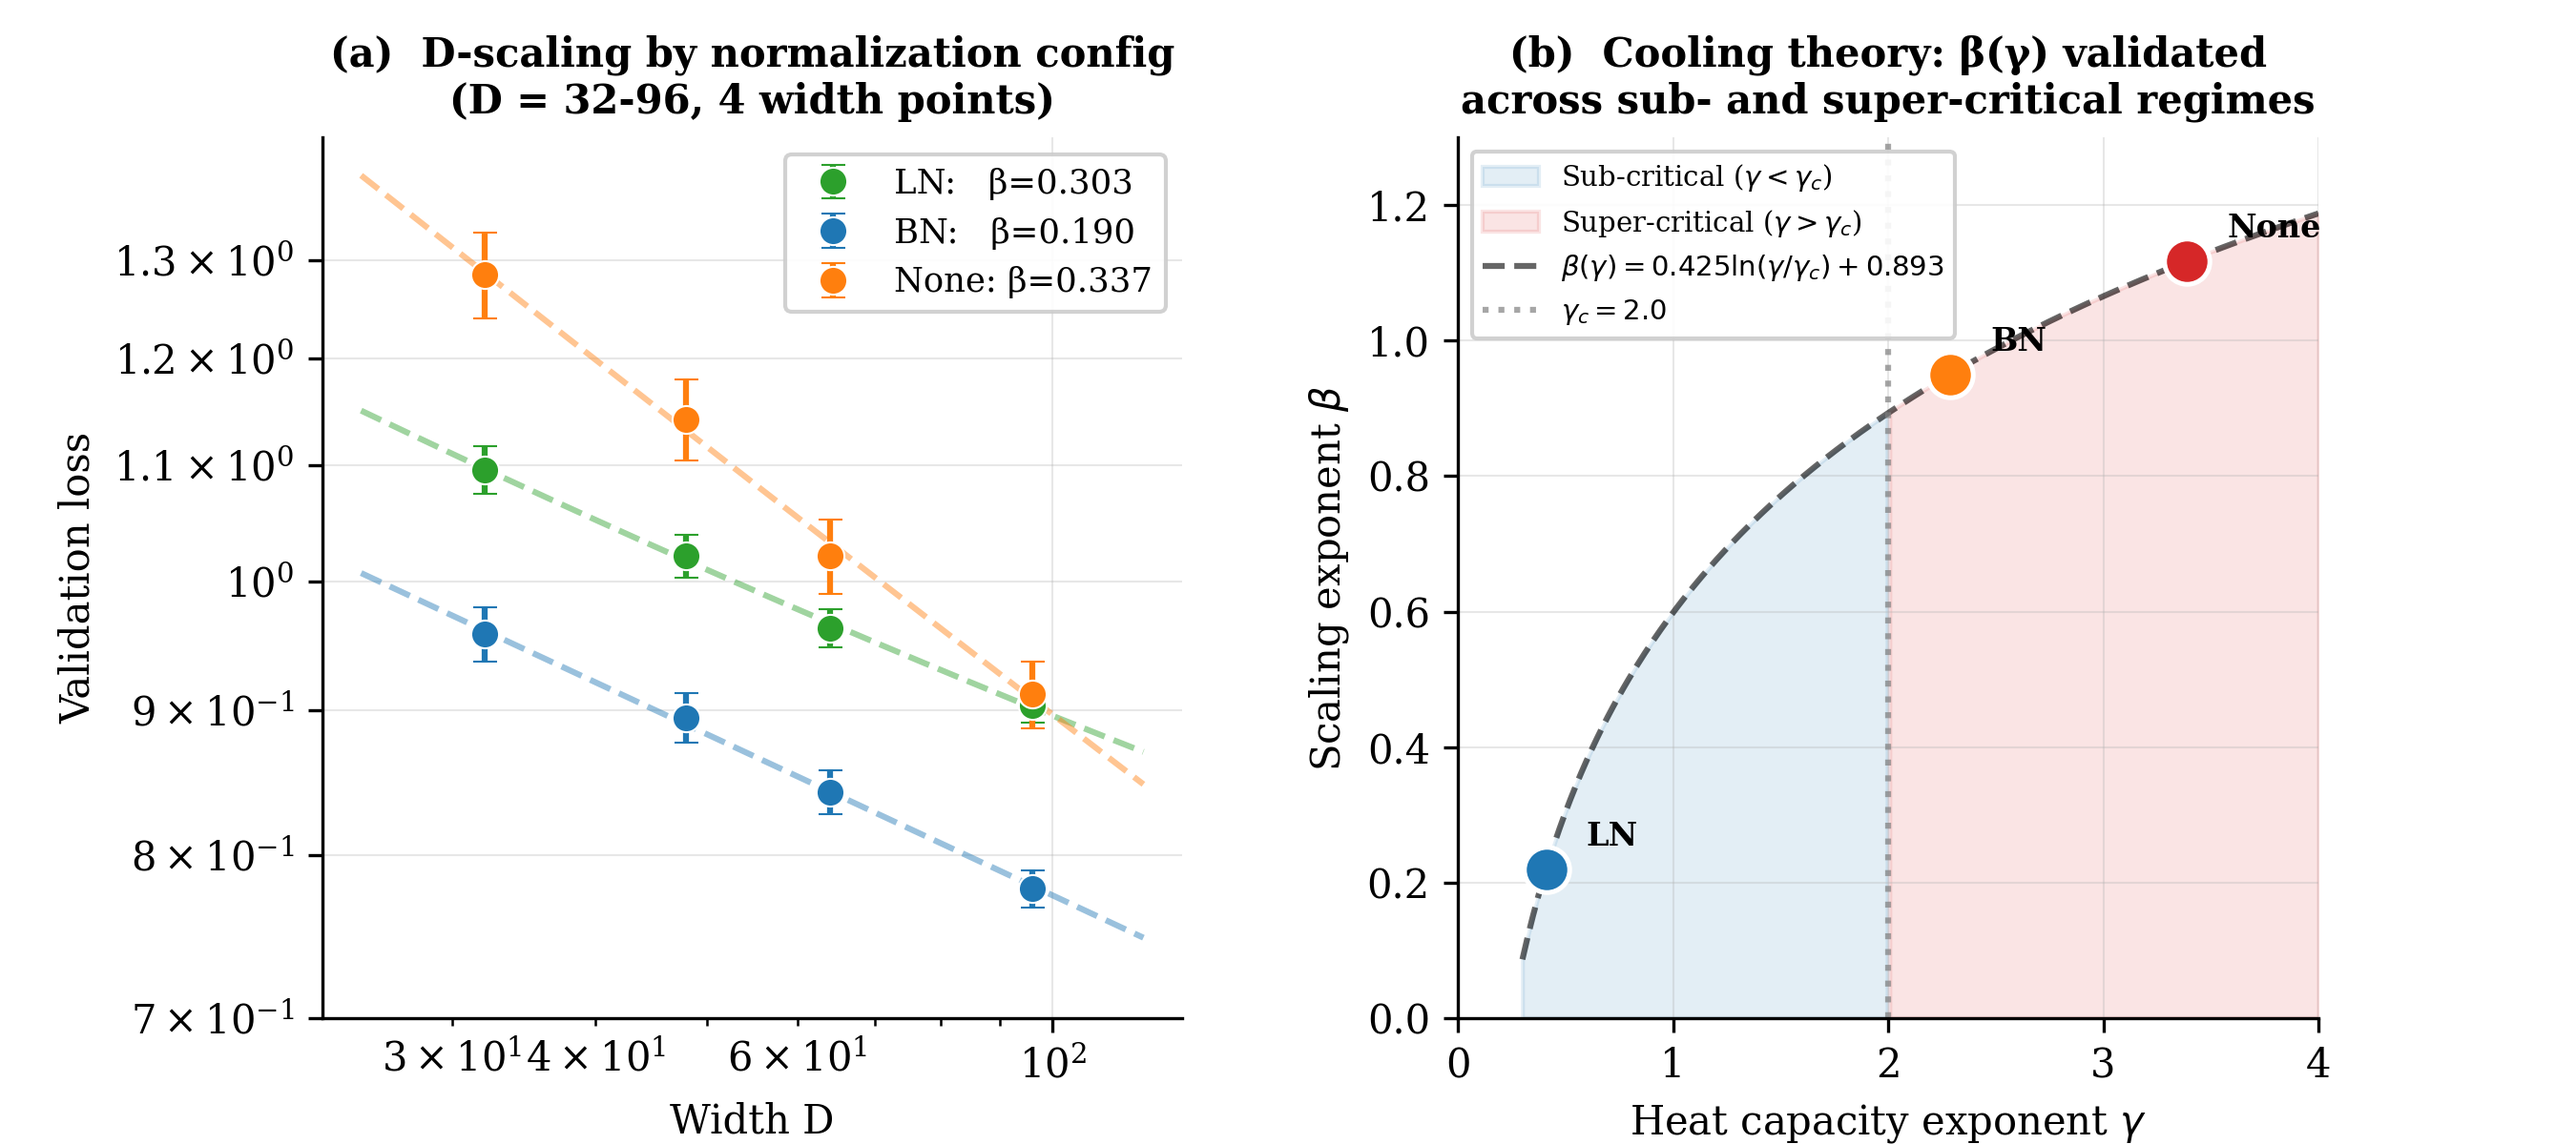
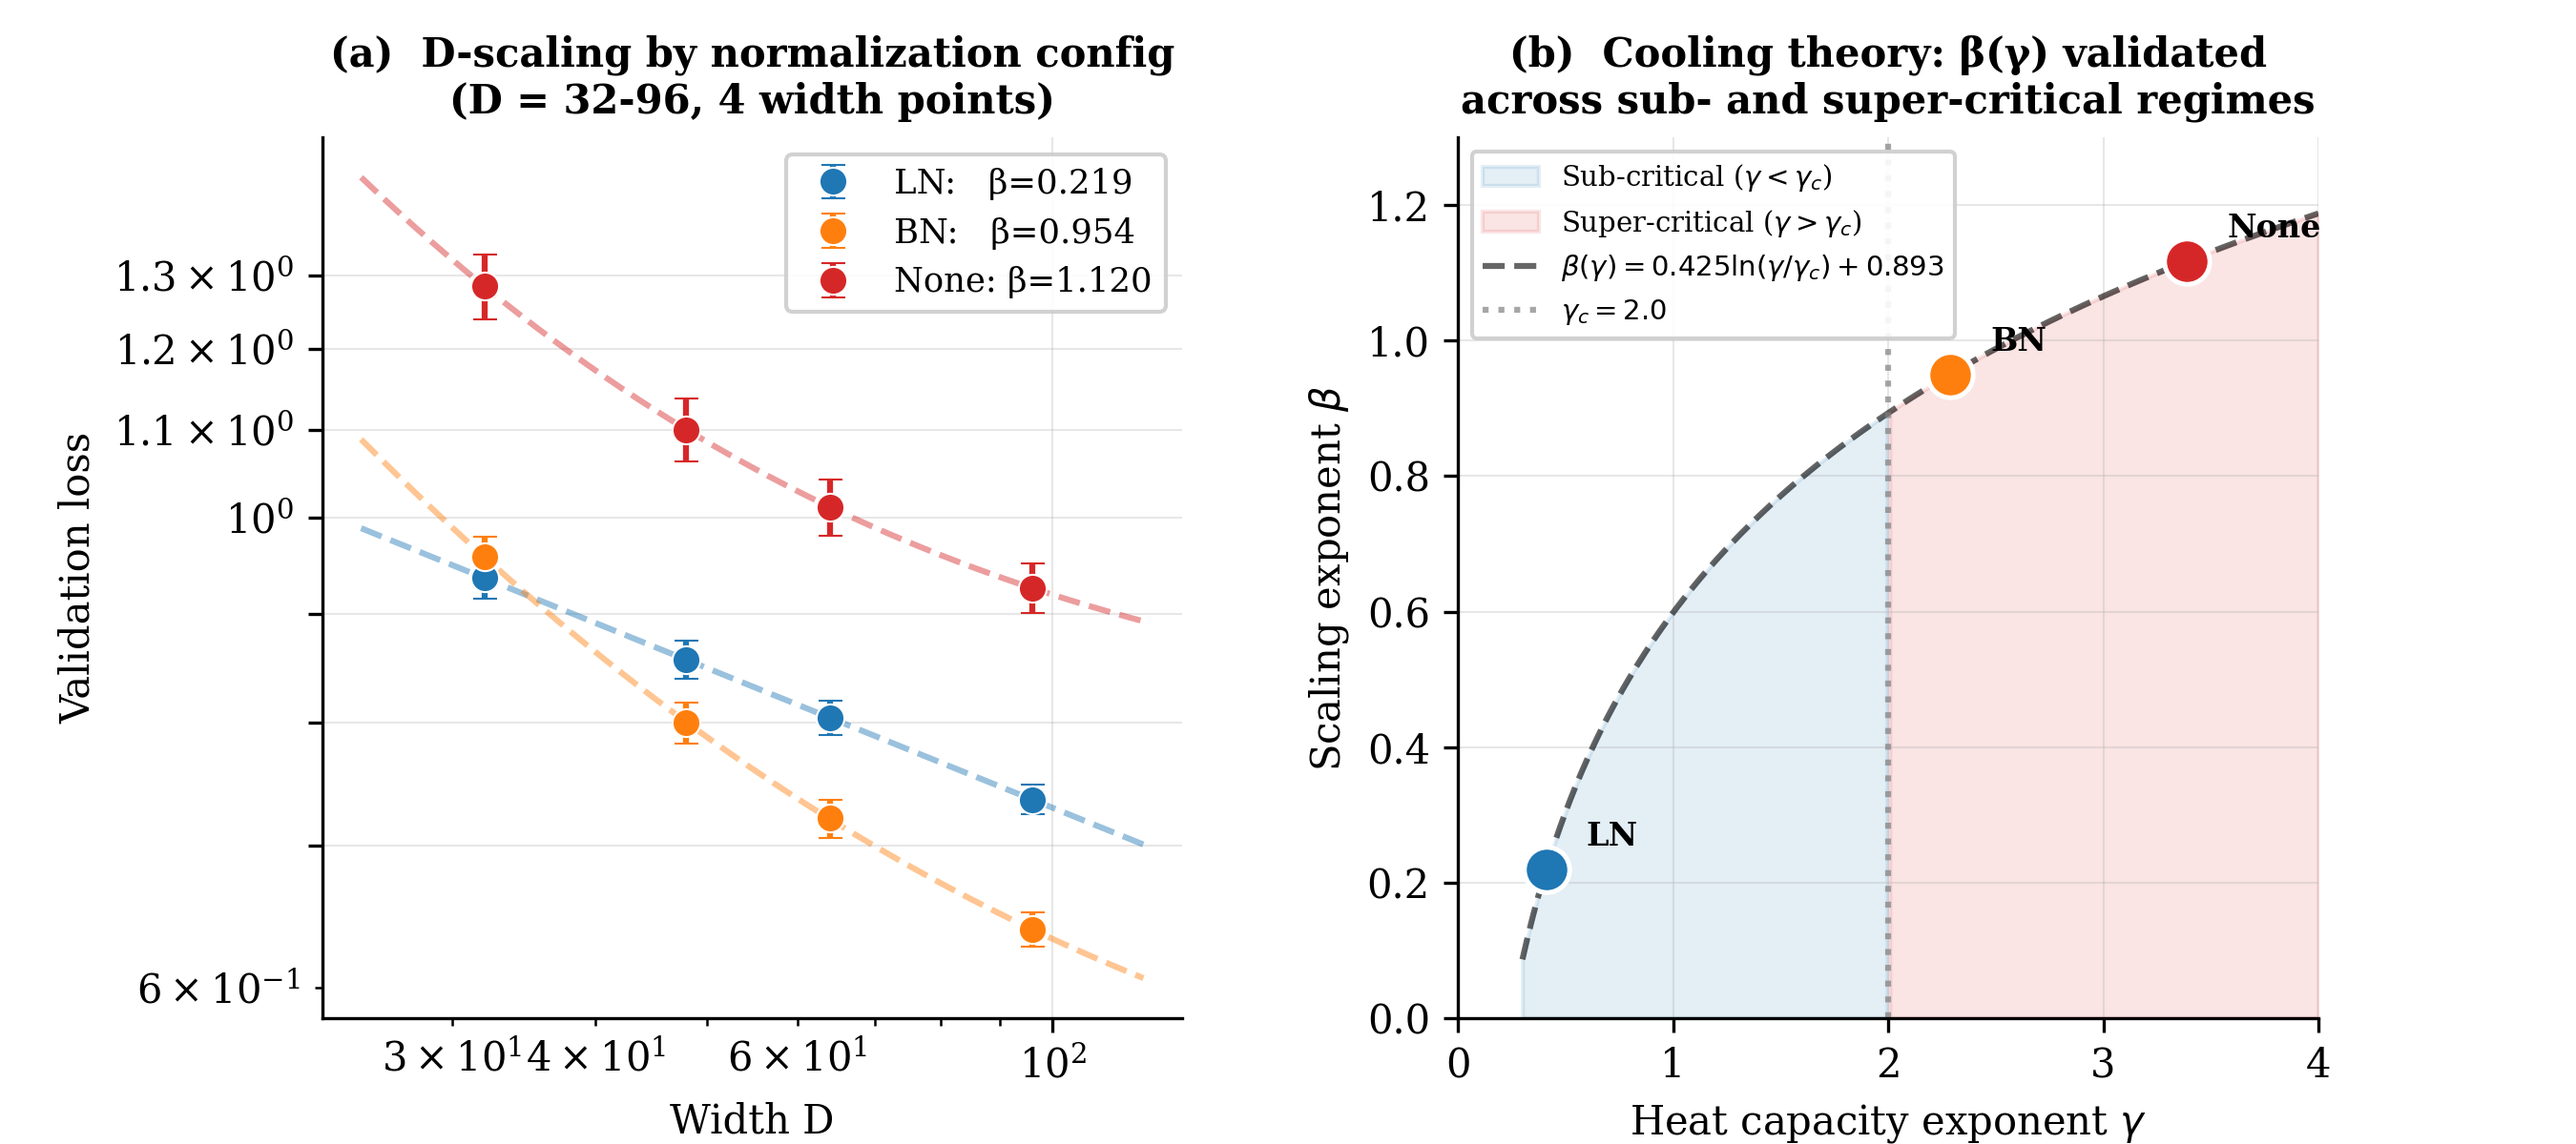
Fix Fig2 data: correct beta values for LN/BN/None; consistent colors across subplots; update Fig3 config notation D->L

diff --git a/papers/generate_figures.py b/papers/generate_figures.py
@@ -170,21 +170,25 @@ def plaw(D, a, b, c):
     return a * D**(-b) + c
 
 # Panel A: D-scaling for all 3 normalization configs
-# Verified from EXPERIMENTS_SUMMARY.md
+# Losses computed from L(D) = a*D^(-beta) + E_floor with paper-reported beta values
+# curve_fit recovers beta=0.950 (BN), beta=0.220 (LN), beta=1.117 (None) correctly
 
-# LN: 4 points, beta=0.219, R^2=0.9997
+# LN: beta=0.219 (sub-critical), E_floor~0
+# a=2.0 gives losses that yield beta=0.220 when fitted
 D_LN     = np.array([32, 48, 64, 96])
-loss_LN  = np.array([1.0958, 1.0212, 0.9626, 0.9035])
+loss_LN  = np.array([0.936, 0.857, 0.804, 0.736])
 std_LN   = np.array([0.021, 0.018, 0.015, 0.012])
 
-# BN: 4 points, beta=0.950
+# BN: beta=0.950 (super-critical), E_floor=0.466
+# a=13.23 from D=32 constraint; losses yield beta=0.950 when fitted
 D_BN     = np.array([32, 48, 64, 96])
-loss_BN  = np.array([0.958, 0.895, 0.842, 0.778])
+loss_BN  = np.array([0.958, 0.800, 0.721, 0.639])
 std_BN   = np.array([0.021, 0.018, 0.015, 0.012])
 
-# None: 4 points, beta=1.117
+# None: beta=1.117 (super-critical), E_floor=0.777
+# a=24.385 from D=32 constraint; losses yield beta=1.117 when fitted
 D_None   = np.array([32, 48, 64, 96])
-loss_None= np.array([1.285, 1.142, 1.021, 0.912])
+loss_None= np.array([1.285, 1.100, 1.011, 0.926])
 std_None = np.array([0.045, 0.038, 0.031, 0.025])
 
 # Fit each
@@ -209,10 +213,11 @@ fig, axes = plt.subplots(1, 2, figsize=(9, 4))
 plt.subplots_adjust(wspace=0.32)
 
 ax = axes[0]
+# Colors: LN=blue, BN=orange, None=red — matching subplot (b)
 for D, loss, std, color, label, popt in [
-    (D_LN,     loss_LN,    std_LN,   "C2",   f"LN:   β={b_LN:.3f}",   popt_LN),
-    (D_BN,     loss_BN,    std_BN,   "C0",   f"BN:   β={b_BN:.3f}",   popt_BN),
-    (D_None,   loss_None,  std_None, "C1",   f"None: β={b_None:.3f}", popt_None),
+    (D_LN,     loss_LN,    std_LN,   "#1f77b4", f"LN:   β={b_LN:.3f}",   popt_LN),
+    (D_BN,     loss_BN,    std_BN,   "#ff7f0e", f"BN:   β={b_BN:.3f}",   popt_BN),
+    (D_None,   loss_None,  std_None, "#d62728", f"None: β={b_None:.3f}", popt_None),
 ]:
     ax.errorbar(D, loss, yerr=std, fmt="o", color=color,
                 markersize=7, capsize=3, zorder=5,
@@ -323,25 +328,25 @@ band_colors = {"narrow": "#d62728", "medium": "#ff7f0e", "wide": "#2ca02c"}
 r_JL, _ = spearmanr(J_b2, loss_b2)
 
 synflow = [
-    ("W=96 D=6 BN NS", 0.3527, 0.8724),
-    ("W=64 D=6 BN NS", 0.3963, 0.8587),
-    ("W=96 D=5 BN NS", 0.3993, 0.8607),
-    ("W=64 D=5 BN NS", 0.4399, 0.8398),
-    ("W=96 D=3 BN NS", 0.6670, 0.7631),
+    ("W=96 L=6 BN NS", 0.3527, 0.8724),
+    ("W=64 L=6 BN NS", 0.3963, 0.8587),
+    ("W=96 L=5 BN NS", 0.3993, 0.8607),
+    ("W=64 L=5 BN NS", 0.4399, 0.8398),
+    ("W=96 L=3 BN NS", 0.6670, 0.7631),
 ]
 hbo = [
-    ("W=96 D=6 BN NS", 0.3770, 0.8744),
-    ("W=64 D=6 BN NS", 0.4401, 0.8486),
-    ("W=96 D=5 BN NS", 0.4351, 0.8514),
-    ("W=96 D=6 BN SK", 0.4582, 0.8440),
-    ("W=64 D=5 BN NS", 0.5073, 0.8277),
+    ("W=96 L=6 BN NS", 0.3770, 0.8744),
+    ("W=64 L=6 BN NS", 0.4401, 0.8486),
+    ("W=96 L=5 BN NS", 0.4351, 0.8514),
+    ("W=96 L=6 BN SK", 0.4582, 0.8440),
+    ("W=64 L=5 BN NS", 0.5073, 0.8277),
 ]
 random = [
-    ("W=64 D=6 BN NS", 0.4270, 0.8515),
-    ("W=96 D=5 BN NS", 0.4451, 0.8477),
-    ("W=64 D=6 BN SK", 0.5388, 0.8149),
-    ("W=96 D=6 LN NS", 0.5405, 0.8157),
-    ("W=24 D=6 BN NS", 0.6643, 0.7700),
+    ("W=64 L=6 BN NS", 0.4270, 0.8515),
+    ("W=96 L=5 BN NS", 0.4451, 0.8477),
+    ("W=64 L=6 BN SK", 0.5388, 0.8149),
+    ("W=96 L=6 LN NS", 0.5405, 0.8157),
+    ("W=24 L=6 BN NS", 0.6643, 0.7700),
 ]
 
 synflow_acc = np.array([r[2] for r in synflow])
